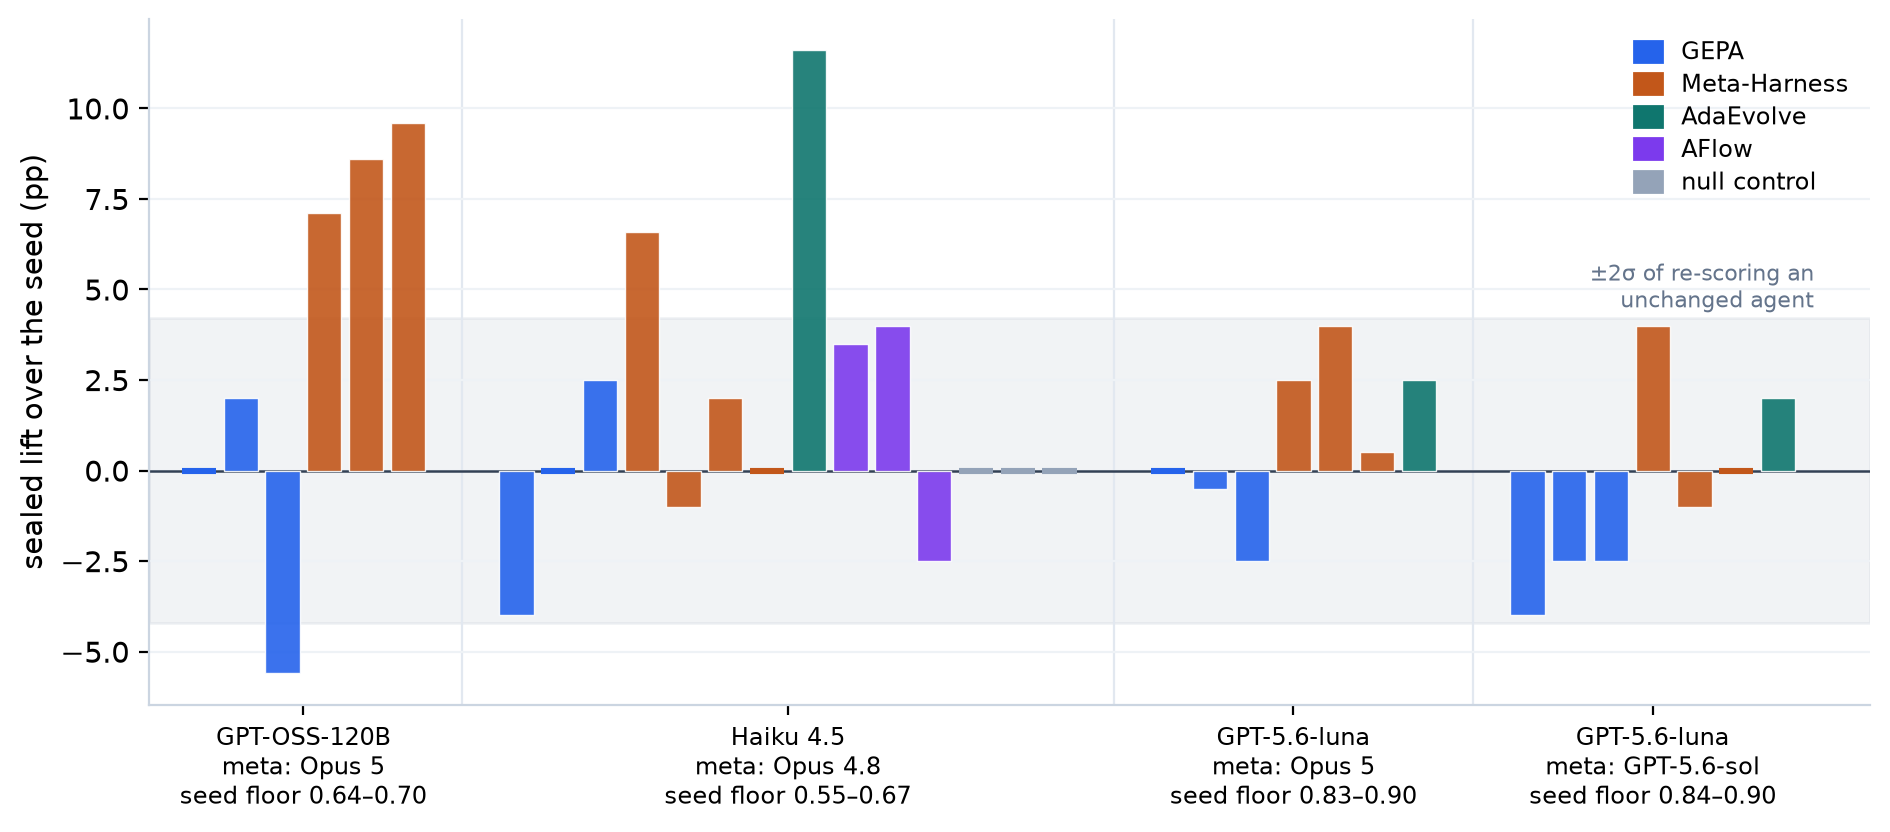
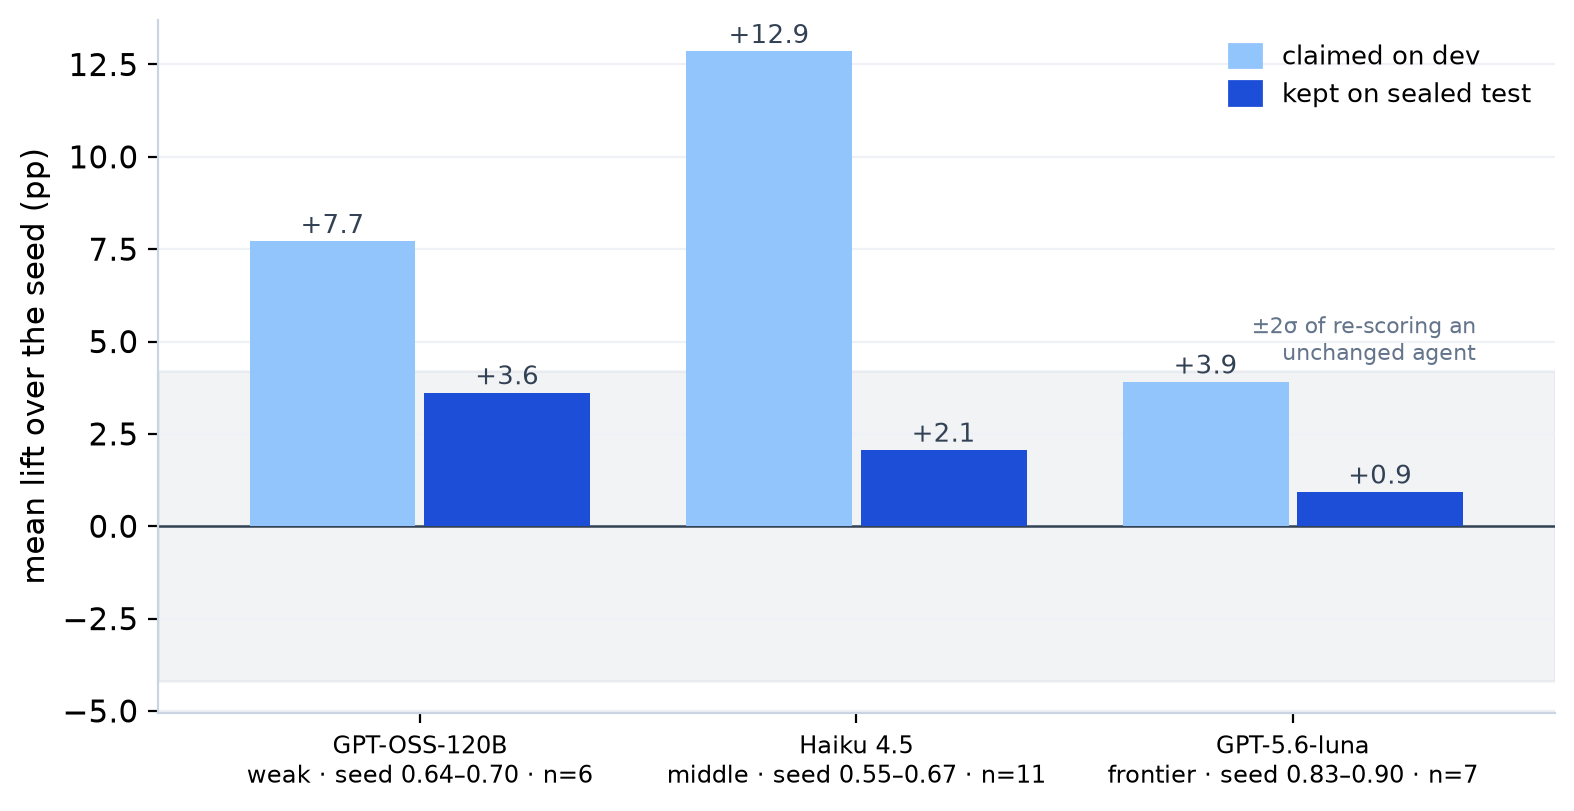
Worker-axis figure: simplify to mean dev-vs-sealed bars per worker
- Three workers on GPQA, two bars each: mean claimed dev lift vs mean
  kept sealed lift, over the noise band. Methods pooled, sol-meta runs
  dropped from the figure (replication stays in the text).
- No per-group meta labels; caption says Opus-5-class meta throughout
  with the Haiku Opus-4.8 parenthetical, and discloses the dev-baseline
  caveat.
- Middle-worker paragraph updated to the new numbers (n=11 with nulls
  dropped: +12.9 claimed / +2.1 kept); checklist cross-ref re-anchored.

diff --git a/posts/the-benchmark/figures/make_worker_axis.py b/posts/the-benchmark/figures/make_worker_axis.py
@@ -1,11 +1,13 @@
 #!/usr/bin/env python3
-"""The worker-axis bars for "headroom is the method's whole paycheck":
-every valid GPQA cell in the evaluation as one bar — sealed lift over the
-seed — grouped by worker (the frontier worker split by meta-model), colored
-by method. The shaded band is ±2σ of re-scoring an unchanged agent.
-The story: the only bars that clear the band sit on the weak workers'
-weakest seeds; the frontier worker's bars hug zero under both metas.
+"""The worker-axis bars for "headroom is the method's whole paycheck",
+maximally plain version: three workers on GPQA, two bars each — what the
+methods claimed on dev (mean best-dev lift over the seed) and what the
+sealed test kept (mean sealed lift). Same Opus-5-class meta throughout
+(the Haiku sweep ran Opus 4.8; indistinguishable in our experiments);
+the sol-meta replication is in the text, not the figure.
 
+Cells need dev_best + genesis + sealed lift to pair the two bars, so the
+null-control runs (which never propose a candidate) drop out here.
 Reads aggregates only, from the blog-data assembly (safe for the public repo).
 Regenerate: /tmp/.viztest-venv/bin/python make_worker_axis.py
 """
@@ -21,35 +23,17 @@ import matplotlib.pyplot as plt  # noqa: E402
 
 CELLS = os.path.expanduser("~/mab2-runs/blog-data/cells.csv")
 NOISE_2SIGMA = 4.2            # pp; 2 x sd of re-scoring an unchanged agent
-METHODS = [("gepa", "GEPA", "#2563eb"),
-           ("mh", "Meta-Harness", "#c2571a"),
-           ("adaevolve", "AdaEvolve", "#0f766e"),
-           ("aflow", "AFlow", "#7c3aed"),
-           ("null", "null control", "#94a3b8")]
-COLOR = {k: c for k, _, c in METHODS}
-ORDER = {k: i for i, (k, _, _) in enumerate(METHODS)}
-TIERS = {"minimal": 0, "medium": 1, "strong": 2, "oss-120b": 0}
+DEV_COLOR, TEST_COLOR = "#93c5fd", "#1d4ed8"
+WORKERS = [("gpt-oss-120b", "GPT-OSS-120B", "weak"),
+           ("haiku-4-5", "Haiku 4.5", "middle"),
+           ("gpt-5.6-luna", "GPT-5.6-luna", "frontier")]
 
 plt.rcParams.update({
-    "font.family": "DejaVu Sans", "font.size": 10.5,
+    "font.family": "DejaVu Sans", "font.size": 11,
     "axes.edgecolor": "#cbd5e1", "axes.linewidth": 0.8,
     "figure.facecolor": "white", "savefig.facecolor": "white",
     "savefig.bbox": "tight", "savefig.dpi": 200,
 })
-
-
-def group_of(r):
-    if r["worker"] == "gpt-oss-120b":
-        return 0
-    if r["worker"] == "haiku-4-5":
-        return 1
-    return 2 if "opus" in r["meta"] else 3
-
-
-GROUPS = ["GPT-OSS-120B\nmeta: Opus 5",
-          "Haiku 4.5\nmeta: Opus 4.8",
-          "GPT-5.6-luna\nmeta: Opus 5",
-          "GPT-5.6-luna\nmeta: GPT-5.6-sol"]
 
 
 def collect():
@@ -57,69 +41,54 @@ def collect():
     with open(CELLS) as fh:
         for r in csv.DictReader(fh):
             if (r["bench"] != "gpqa" or r["invalid"] == "True"
-                    or r["basis"] == "unsealed" or not r["lift_pp"]
-                    or not r["genesis_test"]):
+                    or r["basis"] == "unsealed" or r["source"] == "sol-luna"
+                    or not r["lift_pp"] or not r["genesis_test"]
+                    or not r["dev_best"]):
                 continue
-            recs.append({"group": group_of(r), "method": r["method"],
-                         "tier": r["tier"], "seed": int(r["seed"]),
-                         "floor": float(r["genesis_test"]),
-                         "lift": float(r["lift_pp"])})
+            floor = float(r["genesis_test"])
+            recs.append({"worker": r["worker"], "floor": floor,
+                         "dev": (float(r["dev_best"]) - floor) * 100,
+                         "test": float(r["lift_pp"])})
     return recs
 
 
 def main():
     recs = collect()
-    fig, ax = plt.subplots(figsize=(9.6, 4.3))
-
-    # bar positions: consecutive within a group, a gap between groups
-    x = 0.0
-    centers, spans = [], []
-    for g in range(4):
-        sel = sorted((r for r in recs if r["group"] == g),
-                     key=lambda r: (ORDER[r["method"]],
-                                    TIERS.get(r["tier"], 9), r["seed"]))
-        x0 = x
-        for r in sel:
-            r["x"] = x
-            x += 1.0
-        centers.append((x0 + x - 1.0) / 2)
-        spans.append((min(r["floor"] for r in sel), max(r["floor"] for r in sel)))
-        clear = sum(1 for r in sel if abs(r["lift"]) > NOISE_2SIGMA)
-        print(f"{GROUPS[g].splitlines()[0]:>14}: n={len(sel)}  "
-              f"mean {mean(r['lift'] for r in sel):+5.1f}pp  "
-              f"outside 2σ: {clear}/{len(sel)}  "
-              f"floor {spans[g][0]:.2f}–{spans[g][1]:.2f}")
-        x += 1.6
+    fig, ax = plt.subplots(figsize=(8.0, 4.2))
 
     ax.axhspan(-NOISE_2SIGMA, NOISE_2SIGMA, color="#94a3b8", alpha=0.13, zorder=0)
     ax.axhline(0, color="#334155", lw=0.9, zorder=1)
-    for r in recs:
-        if r["lift"] == 0:   # zero lift is a result, not a hole: flat cap at 0
-            ax.plot([r["x"] - 0.41, r["x"] + 0.41], [0, 0],
-                    color=COLOR[r["method"]], lw=2.2, zorder=4,
-                    solid_capstyle="butt")
-        else:
-            ax.bar(r["x"], r["lift"], width=0.82, color=COLOR[r["method"]],
-                   alpha=0.9, edgecolor="white", lw=0.5, zorder=3)
-    for g in range(1, 4):
-        left = min(r["x"] for r in recs if r["group"] == g) - 1.3
-        ax.axvline(left, color="#e2e8f0", lw=0.8, zorder=0)
 
-    ax.set_xticks(centers)
-    ax.set_xticklabels([f"{lbl}\nseed floor {lo:.2f}–{hi:.2f}"
-                        for lbl, (lo, hi) in zip(GROUPS, spans)], fontsize=8.8)
+    labels = []
+    for g, (wkey, wlabel, tier) in enumerate(WORKERS):
+        sel = [r for r in recs if r["worker"] == wkey]
+        dev, test = mean(r["dev"] for r in sel), mean(r["test"] for r in sel)
+        lo, hi = min(r["floor"] for r in sel), max(r["floor"] for r in sel)
+        ax.bar(g - 0.2, dev, width=0.38, color=DEV_COLOR, zorder=3)
+        ax.bar(g + 0.2, test, width=0.38, color=TEST_COLOR, zorder=3)
+        for x, v in ((g - 0.2, dev), (g + 0.2, test)):
+            ax.annotate(f"{v:+.1f}", xy=(x, v), xytext=(0, 3),
+                        textcoords="offset points", ha="center",
+                        fontsize=9.5, color="#334155")
+        labels.append(f"{wlabel}\n{tier} · seed {lo:.2f}–{hi:.2f} · n={len(sel)}")
+        print(f"{wlabel:>14}: n={len(sel)}  dev {dev:+5.1f}pp  "
+              f"sealed {test:+5.1f}pp  floor {lo:.2f}–{hi:.2f}")
+
     ax.annotate("±2σ of re-scoring an\nunchanged agent",
-                xy=(x - 1.6, NOISE_2SIGMA), xytext=(-2, 4),
+                xy=(2.42, NOISE_2SIGMA), xytext=(0, 4),
                 textcoords="offset points", ha="right",
                 fontsize=8, color="#64748b")
 
     from matplotlib.patches import Patch
-    ax.legend(handles=[Patch(color=c, label=l) for _, l, c in METHODS],
-              loc="upper right", fontsize=8.5, frameon=False,
-              handlelength=1.2, handleheight=1.0, labelspacing=0.35)
+    ax.legend(handles=[Patch(color=DEV_COLOR, label="claimed on dev"),
+                       Patch(color=TEST_COLOR, label="kept on sealed test")],
+              loc="upper right", fontsize=9.5, frameon=False,
+              handlelength=1.2, handleheight=1.0, labelspacing=0.4)
 
-    ax.set_xlim(-1.2, x - 0.4)
-    ax.set_ylabel("sealed lift over the seed (pp)")
+    ax.set_xlim(-0.6, 2.6)
+    ax.set_xticks(range(3))
+    ax.set_xticklabels(labels, fontsize=8.8)
+    ax.set_ylabel("mean lift over the seed (pp)")
     ax.spines[["top", "right"]].set_visible(False)
     ax.grid(color="#eef2f6", zorder=0, axis="y")
     ax.set_axisbelow(True)
